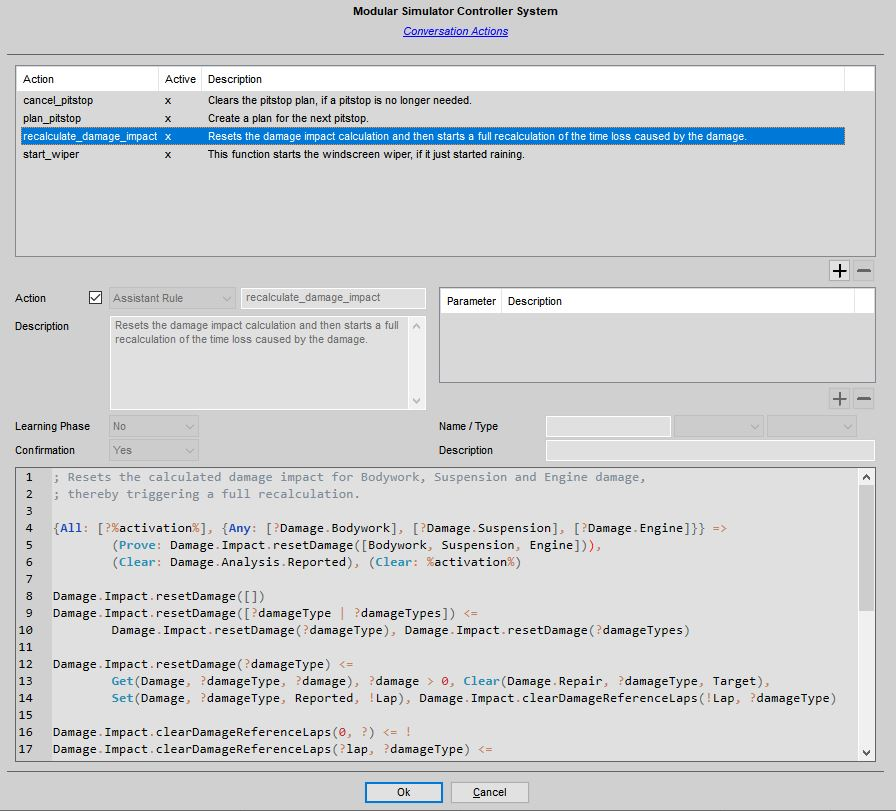
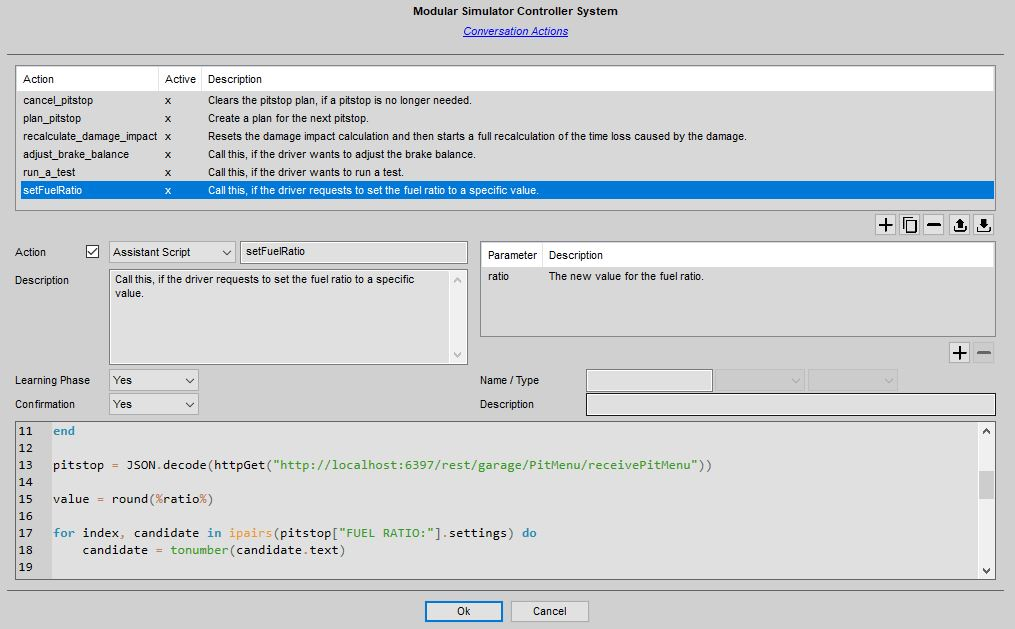
Export / Import of Action and Events

Changed region(s): [[0.0, 0.0, 1.0, 1.0]]

diff --git a/README.md b/README.md
@@ -49,7 +49,7 @@ Please read the [Release Notes](https://github.com/SeriousOldMan/Simulator-Contr
 
 #### Latest development build
 
-[6.2.9.0-dev](https://fileshare.impresion3d.pro/filebrowser/api/public/dl/X3XWD_GQ) (Early build for 6.2.9. Changes: Fixed relocation of Temp folder, "Session" module for Lua scripts, Rewrite of data provider interface, Fixed minor issues in the News system.)
+[6.2.9.0-dev](https://fileshare.impresion3d.pro/filebrowser/api/public/dl/X3XWD_GQ) (Early build for 6.2.9. Changes: Fixed relocation of Temp folder, "Session" module for Lua scripts, Rewrite of data provider interface, Fixed minor issues in the News system, Export and import of Actions and Events.)
 
 Please read the [Release Notes](https://github.com/SeriousOldMan/Simulator-Controller/wiki/Release-Notes) and - sometimes even more important - the release specific [Update Notes](https://github.com/SeriousOldMan/Simulator-Controller/wiki/Update-Notes#release-629) of this version and all the versions you might have skipped, before installing and using this version.
 

diff --git a/Docs/Customizing Assistants.md b/Docs/Customizing Assistants.md
@@ -470,6 +470,8 @@ To open this editor, click on the small button with the "Pencil" icon on the rig
 
 You can enable or disable individual predefined actions using the checkbox on the left of the action name. And you can define your own actions with a click on the "+" button (or you can copy an existing event by clicking on the button with the "Copy" icon). But this requires a very detailed understanding of the architecture and inner workings of Simulator Controller and the Assistants as well as an excellent understanding of LLMs and how they call tools and functions. This is far beyond the scope of this documentation, but I try to give a brief introduction.
 
+Additionally you can export and import actions here to build a library for you and your team mates or you can share them with the community, for example.
+
 1. When an LLM is activated, it is possible to provide a list of function descriptions to the LLM. *OpenAI* has defined the quasi-standard for the function description in JSON format as part of their API:
 
 	   {

diff --git a/Docs/Releases.md b/Docs/Releases.md
@@ -38,6 +38,7 @@
 #### Changes
 
   - The Race Engineer no longer announces temeperature related pressure corrections, if the pitstop had been completely planned externally, for example in the "Team Center".
+  - Actions and Events can now be exported and imported in the Assistant booster editor, so that it is possible now to share them with community or your team mates.
   - [Expert] Once again comprehensive extensions of the integrated script engine:
     - An all new "Session" module, which can be included in a *Lua* script using the "require" function, gives access to the state of the simulation in scripts running in an Assistant booster. See the [new documentation](https://github.com/SeriousOldMan/Simulator-Controller/wiki/Session-Module) for more information.
 	- It is now possible to use *Lua* coroutines even while interface with the host environments or with the Rule Engine.
